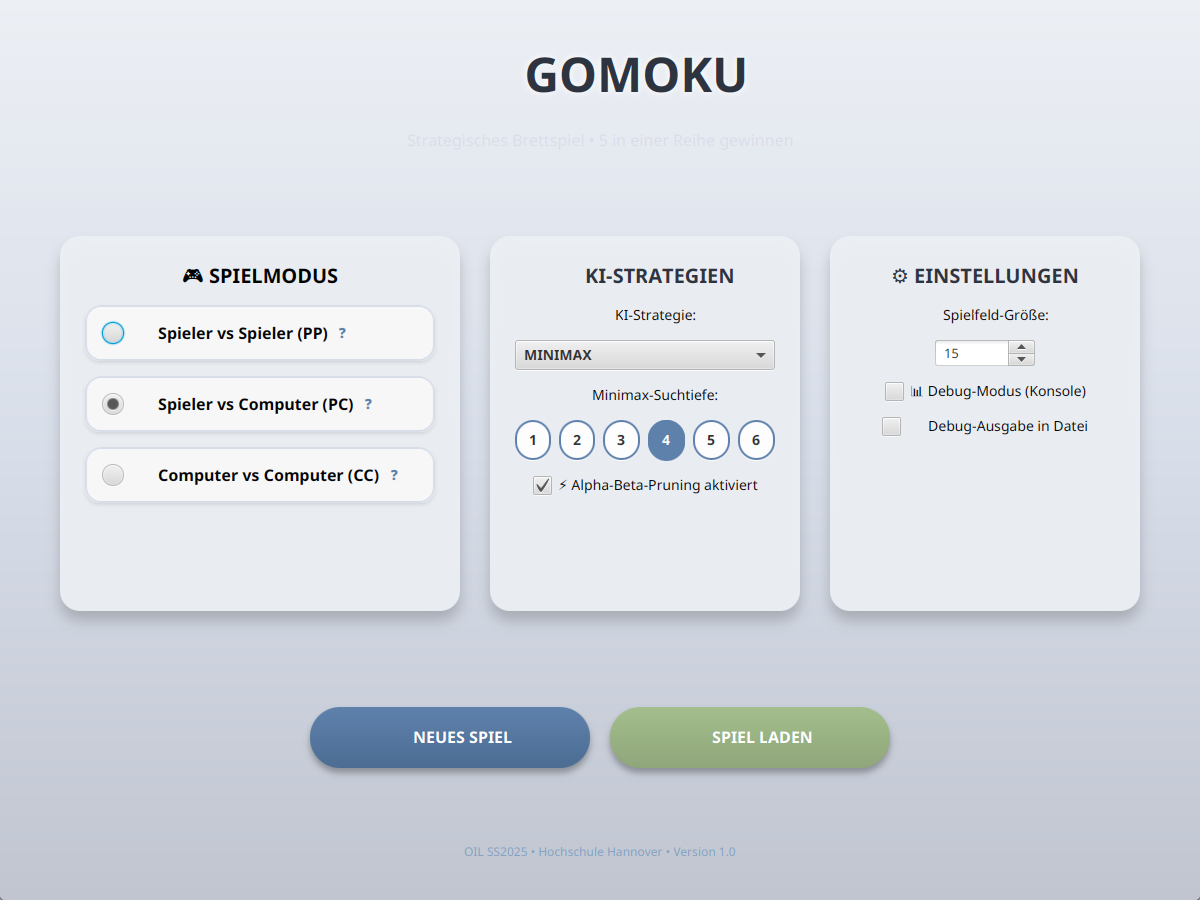
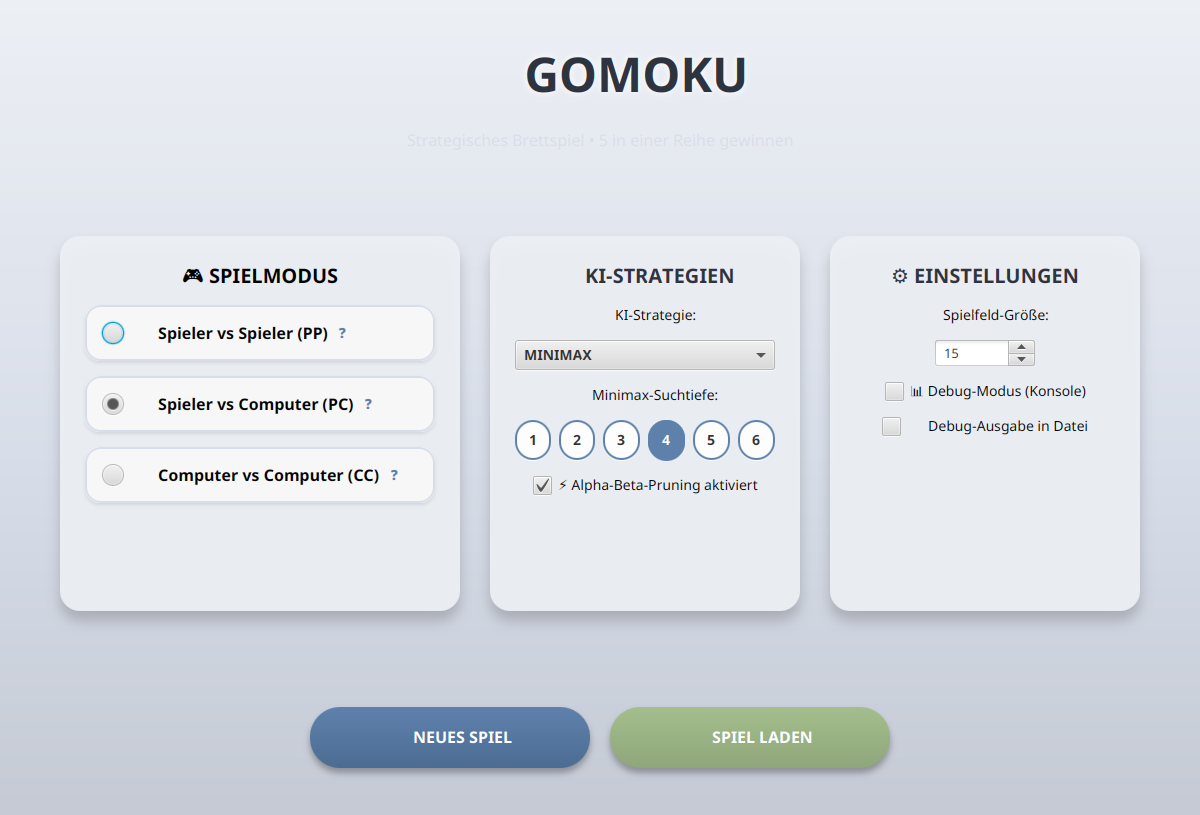
English README as default, new descriptions

diff --git a/README.md b/README.md
@@ -1,98 +1,95 @@
-**Deutsch** | [English](README.en.md)
+**English** | [Deutsch](README.de.md)
 
-# 🎮 Gomoku – Fünf in einer Reihe (JavaFX) ⚫⚪
+# 🎮 Gomoku – Five in a Row (JavaFX) ⚫⚪
 
-![Java](https://img.shields.io/badge/java-17-%23ED8B00.svg?style=for-the-badge&logo=openjdk&logoColor=white)
-![JavaFX](https://img.shields.io/badge/javafx-20-%23007396.svg?style=for-the-badge&logo=openjdk&logoColor=white)
-![Maven](https://img.shields.io/badge/maven-%23C71A36.svg?style=for-the-badge&logo=apachemaven&logoColor=white)
+A JavaFX implementation of **Gomoku** (Five-in-a-Row) with three AI opponents – from random moves up to a
+**Minimax search with alpha-beta pruning** – playable in a modern GUI or straight from the console. Built with
+**Java 17**, **JavaFX** and **Maven**.
 
-Eine vollständige Umsetzung des Brettspiels **Gomoku** (fünf in einer Reihe auf einem 15×15-Feld) in Java 17 und
-JavaFX – spielbar in einer grafischen Oberfläche oder in der Konsole, gegen eine andere Person oder gegen eine von
-drei Computer-Strategien.
-
-Abschlussprojekt im Fach *Objektorientierte Implementierungssprache (OIL)* an der Hochschule Hannover,
-Sommersemester 2025.
-
-| 🏠 Startbildschirm | ♟ Laufendes Spiel (Computer gegen Computer) |
+| 🏠 Start screen | ♟ Game in progress (computer vs computer) |
 |---|---|
-| ![Startbildschirm](docs/startbildschirm.png) | ![Spiel](docs/spiel.png) |
+| ![Start screen](docs/startbildschirm.png) | ![Game](docs/spiel.png) |
 
----
+## 📋 Requirements
 
-## ✨ Funktionen
+- Java 17+
+- No Maven installation needed – the Maven wrapper is included
 
-### 🕹 Spielmodi
-* **Spieler gegen Spieler**, **Spieler gegen Computer** und **Computer gegen Computer**
-* **JavaFX-Oberfläche** mit Startbildschirm und Spieleinstellungen, dazu ein **Konsolenmodus** für das Terminal
-
-### 🤖 KI-Strategien (pro Spieler wählbar)
-* **S1 – Zufall**: Zufallszüge, beschränkt auf die Umgebung vorhandener Steine
-* **S2 – Regelbasiert**: vervollständigt eigene Reihen und blockt Drohungen des Gegners
-* **S3 – Minimax mit Alpha-Beta-Pruning**: heuristische Stellungsbewertung, Suchtiefe von 1 bis 6 einstellbar
-  (Standard: 4)
-* **📋 Zugprotokoll**: für jeden KI-Zug Rechenzeit und Anzahl der bewerteten Stellungen – im Test über
-  **10 Millionen Stellungen** für einen einzigen Zug
-
-### 💾 Speichern & Werkzeuge
-* **Spielstände als XML speichern und laden** (JAXB), inklusive Zugverlauf und Sieg-/Remis-Statistik
-* **Kommandozeilenparameter**, geprüft mit **regulären Ausdrücken**, in beliebiger Reihenfolge
-* **Debug-Ausgabe** in der Konsole (`D`) oder in eine Datei (`DF`)
-* **Windows-`.exe`** über Launch4j
-
----
-
-## 🏗 Architektur
-
-**Model-View-Controller** mit dem **Strategy-Pattern** für die KI-Gegner und einer **Factory**, die die Strategie
-aus ihrem Parameter (`S1`–`S3`) erzeugt.
-
-```
-de.hsh.oil.gomoku/
-├── Main.java, GomokuApplication.java   Einstiegspunkte, Parameterverarbeitung
-├── model/        Spielbrett, Spieler, Züge, Konfiguration, Spielstände, Statistik
-├── controller/   SpielController – Spielablauf, Zugreihenfolge, Gewinnerkennung
-├── view/         GuiView, WelcomeView (JavaFX), KonsoleView (Terminal)
-├── strategy/     Interface ZugStrategie + Zufalls-, Regel- und Minimax-Strategie
-└── util/         ParameterValidator (Regex), StrategieFactory, XmlSaveManager, DebugLogger
-```
-
-Da die Views nur mit dem Controller sprechen, steuert dieselbe Spiellogik sowohl die Oberfläche als auch die Konsole.
-
----
-
-## 🛠 Starten
-
-**Voraussetzung:** Java 17+. Maven muss nicht installiert sein – der Maven-Wrapper lädt es herunter, und JavaFX ist
-als Abhängigkeit eingebunden.
+## 🚀 Build & Run
 
 ```bash
-./mvnw package                     # Windows: mvnw.cmd package
+# Build the executable JAR (Windows: mvnw.cmd package)
+./mvnw package
+
+# Run the JAR
 java -jar target/gomoku-1.0.0-executable.jar
 ```
 
-### ⌨ Kommandozeilenparameter
+## 💻 Command-Line Arguments
 
-Ohne Parameter öffnet sich der Startbildschirm. Die Parameter lassen sich beliebig kombinieren:
+You can skip the start screen and launch a game directly. Arguments may appear in any order and are validated with
+**regular expressions**.
 
-| Parameter | Bedeutung |
-|-----------|-----------|
-| `PP` / `PC` / `CC` | Spieler gegen Spieler / Spieler gegen Computer / Computer gegen Computer |
-| `S1` / `S2` / `S3` | KI-Strategie: Zufall / regelbasiert / Minimax |
-| `D` / `DF` | Debug-Ausgabe in der Konsole / in einer Datei |
-| `Go` | Die gewählte Konfiguration in der Oberfläche statt in der Konsole starten |
+| Argument | Description |
+|----------|-------------|
+| *(none)* | Opens the start screen |
+| `PP` | Player vs Player |
+| `PC` | Player vs Computer |
+| `CC` | Computer vs Computer |
+| `S1` / `S2` / `S3` | AI strategy (one per computer player) |
+| `D` | Debug output to the console |
+| `DF` | Debug output to a file |
+| `Go` | Play the chosen setup in the GUI instead of the console |
+
+**🤖 AI Strategies:**
+
+| Code | Name | Uses depth | Description |
+|------|------|------------|-------------|
+| `S1` | 🎲 Random | No | Random moves, limited to the area around existing stones |
+| `S2` | 🛡 Rule-based | No | Completes its own lines and blocks the opponent's threats |
+| `S3` | 🧠 Minimax | Yes | Minimax search with alpha-beta pruning and a heuristic board evaluation |
+
+The search depth (1–6, default 4) is chosen on the start screen and applies only to S3.
+
+**📝 Examples:**
 
 ```bash
-java -jar target/gomoku-1.0.0-executable.jar PC S3 D        # Konsole, gegen Minimax, mit Debug-Ausgabe
-java -jar target/gomoku-1.0.0-executable.jar Go CC S2 S3    # Oberfläche, regelbasierte KI gegen Minimax
+java -jar target/gomoku-1.0.0-executable.jar PP                # Player vs Player on the console
+java -jar target/gomoku-1.0.0-executable.jar PC S3 D           # against Minimax, with debug output
+java -jar target/gomoku-1.0.0-executable.jar Go CC S2 S3       # GUI: rule-based AI vs Minimax
 ```
 
-### 🪟 Windows-Programm
+## 📁 Project Structure
 
-`build-exe.bat` baut das JAR und verpackt es mit Launch4j zu `releases/Gomoku-1.0.0.exe` – Details in
-[BUILD-README.md](BUILD-README.md).
+```
+de.hsh.oil.gomoku/
+├── Main.java, GomokuApplication.java   Entry points, parameter handling
+├── model/        Board, players, moves, configuration, save games, statistics
+├── controller/   SpielController – game flow, turn order, win detection
+├── view/         GuiView, WelcomeView (JavaFX), KonsoleView (terminal)
+├── strategy/     ZugStrategie interface + random, rule-based and Minimax strategies
+└── util/         ParameterValidator (regex), StrategieFactory, XmlSaveManager, DebugLogger
+```
 
----
+## 🧩 Design Patterns
 
-## 🧰 Technologien
+| Pattern | Where |
+|---------|-------|
+| **MVC** | `model` / `view` / `controller` are fully separated – the same game logic drives the GUI and the console |
+| **Strategy** | `ZugStrategie` – AI algorithms swapped without changing the controller |
+| **Factory** | `StrategieFactory` maps the codes `S1`–`S3` to strategy instances |
 
-Java 17 · JavaFX 20 · Maven · JAXB (XML) · Launch4j
+## ✨ Game Features
+
+- 📐 Configurable board size from 10×10 to 20×20 (default 15×15)
+- ⚫ Standard Gomoku rules – five in a row wins, horizontally, vertically or diagonally
+- 🎮 Three game modes: Player vs Player, Player vs Computer, Computer vs Computer
+- 🧠 Adjustable Minimax search depth (1–6)
+- 📜 **Move log** with the position of every move – and for every AI move its computing time and the number of
+  evaluated positions (over **10 million** for a single move in my tests)
+- 💾 Save/load games as XML (JAXB), including the move history and win/draw statistics
+- 🐛 Debug mode – console output (`D`) or a log file (`DF`)
+- 🖥 Console mode for playing directly in the terminal
+- 🪟 Windows `.exe` via Launch4j (`build-exe.bat`, see [BUILD-README.md](BUILD-README.md))
+
+The interface is in German.

diff --git a/README.de.md b/README.de.md
@@ -1,0 +1,93 @@
+[English](README.md) | **Deutsch**
+
+# 🎮 Gomoku – Fünf in einer Reihe (JavaFX) ⚫⚪
+
+Eine JavaFX-Umsetzung von **Gomoku** (Fünf in einer Reihe) mit drei KI-Gegnern – von Zufallszügen bis zur
+**Minimax-Suche mit Alpha-Beta-Pruning** – spielbar in einer modernen Oberfläche oder direkt in der Konsole.
+Gebaut mit **Java 17**, **JavaFX** und **Maven**.
+
+| 🏠 Startbildschirm | ♟ Laufendes Spiel (Computer gegen Computer) |
+|---|---|
+| ![Startbildschirm](docs/startbildschirm.png) | ![Spiel](docs/spiel.png) |
+
+## 📋 Voraussetzungen
+
+- Java 17+
+- Keine Maven-Installation nötig – der Maven-Wrapper ist enthalten
+
+## 🚀 Bauen & Starten
+
+```bash
+# Ausführbares JAR bauen (Windows: mvnw.cmd package)
+./mvnw package
+
+# JAR starten
+java -jar target/gomoku-1.0.0-executable.jar
+```
+
+## 💻 Kommandozeilenargumente
+
+Der Startbildschirm lässt sich überspringen, um direkt ein Spiel zu starten. Die Argumente sind in beliebiger
+Reihenfolge erlaubt und werden mit **regulären Ausdrücken** geprüft.
+
+| Argument | Beschreibung |
+|----------|--------------|
+| *(keins)* | Öffnet den Startbildschirm |
+| `PP` | Spieler gegen Spieler |
+| `PC` | Spieler gegen Computer |
+| `CC` | Computer gegen Computer |
+| `S1` / `S2` / `S3` | KI-Strategie (eine pro Computer-Spieler) |
+| `D` | Debug-Ausgabe in der Konsole |
+| `DF` | Debug-Ausgabe in eine Datei |
+| `Go` | Die gewählte Konfiguration in der Oberfläche statt in der Konsole spielen |
+
+**🤖 KI-Strategien:**
+
+| Code | Name | Nutzt Tiefe | Beschreibung |
+|------|------|-------------|--------------|
+| `S1` | 🎲 Zufall | Nein | Zufallszüge, beschränkt auf die Umgebung vorhandener Steine |
+| `S2` | 🛡 Regelbasiert | Nein | Vervollständigt eigene Reihen und blockt Drohungen des Gegners |
+| `S3` | 🧠 Minimax | Ja | Minimax-Suche mit Alpha-Beta-Pruning und heuristischer Stellungsbewertung |
+
+Die Suchtiefe (1–6, Standard 4) wird auf dem Startbildschirm gewählt und gilt nur für S3.
+
+**📝 Beispiele:**
+
+```bash
+java -jar target/gomoku-1.0.0-executable.jar PP                # Spieler gegen Spieler in der Konsole
+java -jar target/gomoku-1.0.0-executable.jar PC S3 D           # gegen Minimax, mit Debug-Ausgabe
+java -jar target/gomoku-1.0.0-executable.jar Go CC S2 S3       # Oberfläche: regelbasierte KI gegen Minimax
+```
+
+## 📁 Projektstruktur
+
+```
+de.hsh.oil.gomoku/
+├── Main.java, GomokuApplication.java   Einstiegspunkte, Parameterverarbeitung
+├── model/        Spielbrett, Spieler, Züge, Konfiguration, Spielstände, Statistik
+├── controller/   SpielController – Spielablauf, Zugreihenfolge, Gewinnerkennung
+├── view/         GuiView, WelcomeView (JavaFX), KonsoleView (Terminal)
+├── strategy/     Interface ZugStrategie + Zufalls-, Regel- und Minimax-Strategie
+└── util/         ParameterValidator (Regex), StrategieFactory, XmlSaveManager, DebugLogger
+```
+
+## 🧩 Entwurfsmuster
+
+| Muster | Wo |
+|--------|----|
+| **MVC** | `model` / `view` / `controller` sind vollständig getrennt – dieselbe Spiellogik steuert Oberfläche und Konsole |
+| **Strategy** | `ZugStrategie` – KI-Algorithmen austauschbar, ohne den Controller zu ändern |
+| **Factory** | `StrategieFactory` ordnet die Codes `S1`–`S3` den Strategien zu |
+
+## ✨ Spielfunktionen
+
+- 📐 Einstellbare Brettgröße von 10×10 bis 20×20 (Standard 15×15)
+- ⚫ Klassische Gomoku-Regeln – fünf in einer Reihe gewinnen, waagerecht, senkrecht oder diagonal
+- 🎮 Drei Spielmodi: Spieler gegen Spieler, Spieler gegen Computer, Computer gegen Computer
+- 🧠 Einstellbare Minimax-Suchtiefe (1–6)
+- 📜 **Zugprotokoll** mit der Position jedes Zugs – und für jeden KI-Zug Rechenzeit und Anzahl der bewerteten
+  Stellungen (im Test über **10 Millionen** für einen einzigen Zug)
+- 💾 Spielstände als XML speichern und laden (JAXB), inklusive Zugverlauf und Sieg-/Remis-Statistik
+- 🐛 Debug-Modus – Ausgabe in der Konsole (`D`) oder in einer Logdatei (`DF`)
+- 🖥 Konsolenmodus zum Spielen direkt im Terminal
+- 🪟 Windows-`.exe` über Launch4j (`build-exe.bat`, siehe [BUILD-README.md](BUILD-README.md))
